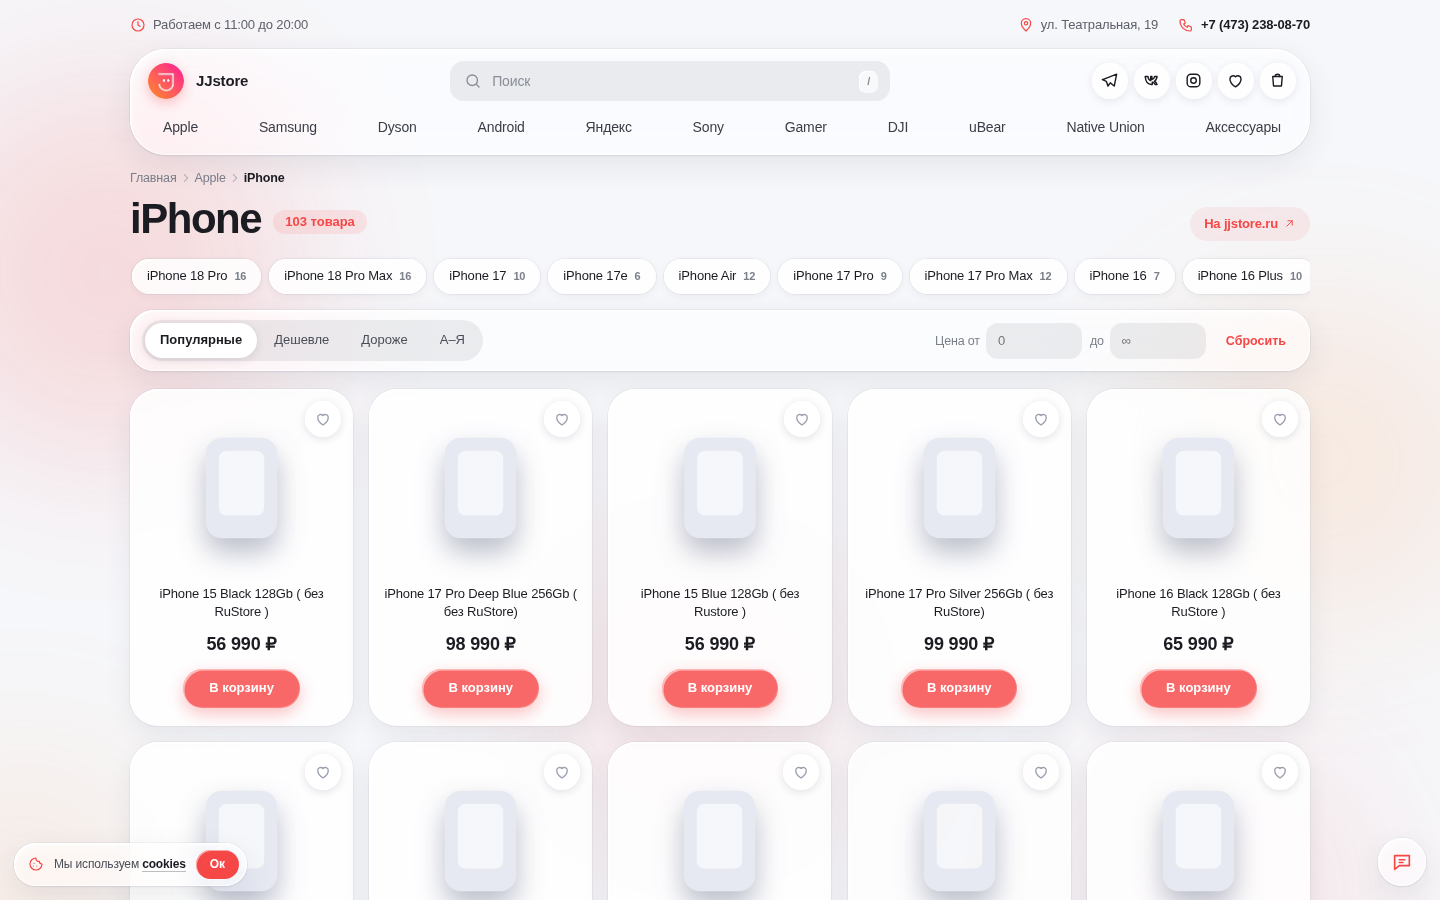
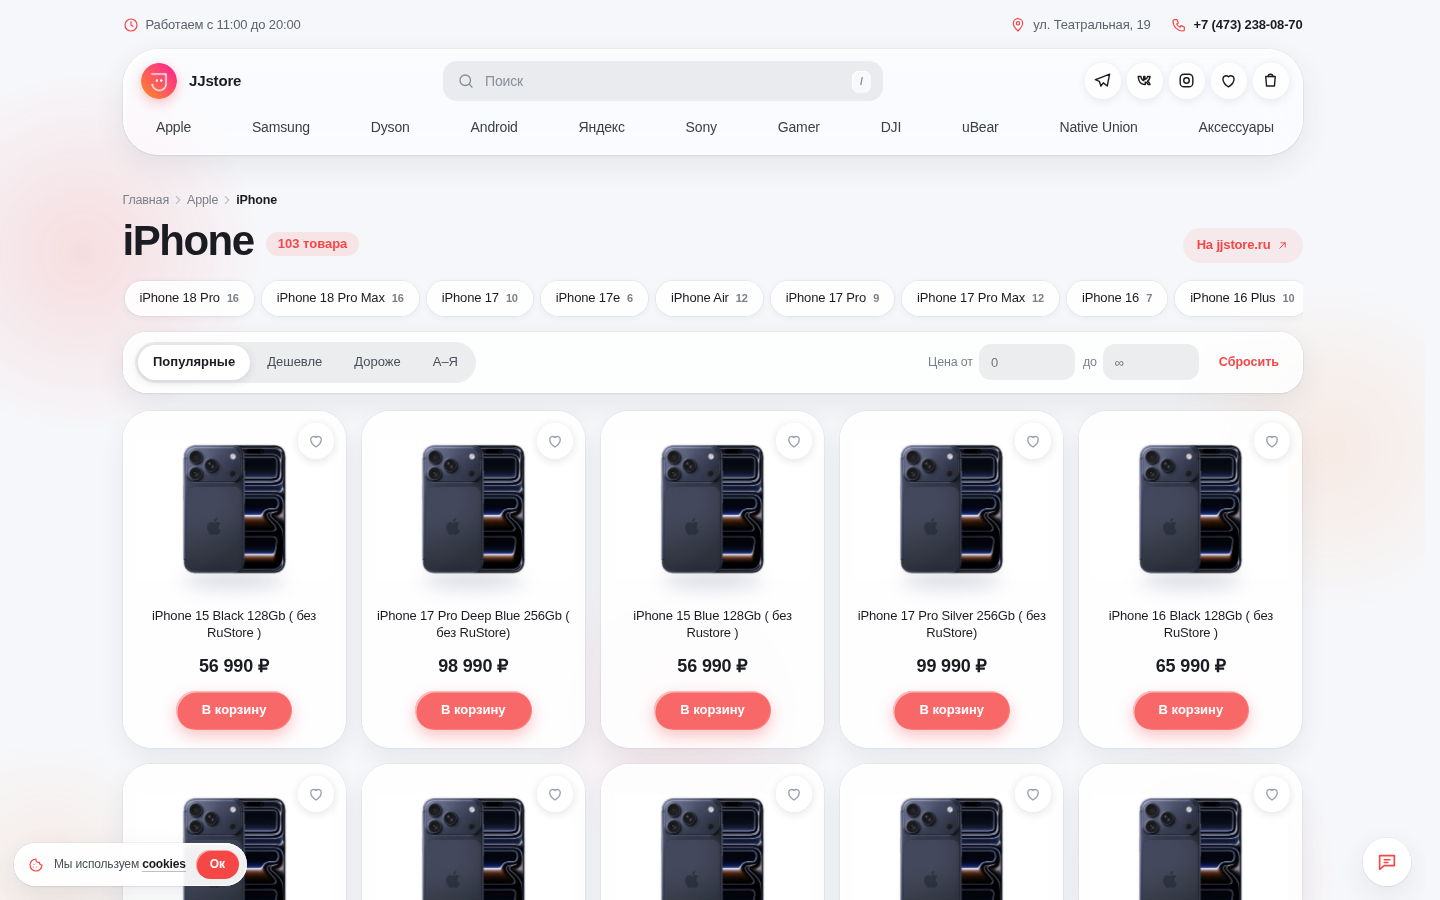
Smoothness pass: no layout shift on header collapse, cheaper rendering, system fonts; white photo backgrounds blended away
Claude-Session: https://claude.ai/code/session_0163ZjdM2uxMpsZRiagcJtBK

diff --git a/assets/script.js b/assets/script.js
@@ -48,6 +48,7 @@
   const feat = n => FEATURED.find(p => p.n === n);
   const imgSrc = p => p.local ? LOCAL + p.local : REMOTE + p.img;
   const link = p => 'https://jjstore.ru/' + p.url;
+  const rm = p => p.local ? '' : ' class="rm"';
   const catUrl = slug => 'https://jjstore.ru/' + slug;
   const isVariant = s => /^[\d.,\s]*(gb|tb|гб|тб|mm|мм|мл|"|дюйм)/i.test(cats[s][0].trim());
   const visKids = s => (kids[s] || []).filter(k => !isVariant(k) && catCount[k]);
@@ -64,7 +65,7 @@
     <article class="card" data-id="${esc(p.id)}">
       ${o.isNew ? '<span class="badge-new">Новинка</span>' : ''}
       <button class="heart ${wish.has(p.id) ? 'on' : ''}" data-act="wish" data-id="${esc(p.id)}" aria-label="В закладки">${ICON.heart}</button>
-      <button class="img" data-act="view" data-id="${esc(p.id)}" aria-label="Быстрый просмотр"><img src="${esc(imgSrc(p))}" alt="${esc(p.name)}" loading="lazy"></button>
+      <button class="img" data-act="view" data-id="${esc(p.id)}" aria-label="Быстрый просмотр"><img${rm(p)} src="${esc(imgSrc(p))}" alt="${esc(p.name)}" loading="lazy"></button>
       <h4 data-act="view" data-id="${esc(p.id)}">${esc(p.name)}</h4>
       <div class="price">${fmt(p.price)}</div>
       <div class="slot" data-id="${esc(p.id)}"></div>
@@ -88,8 +89,10 @@
   const totalQty = () => Object.values(cart).reduce((s, n) => s + n, 0);
   const totalSum = () => Object.entries(cart).reduce((s, [id, n]) => s + (byId.get(id)?.price || 0) * n, 0);
   const stepper = id => `<div class="step" data-id="${esc(id)}"><button data-act="dec" aria-label="Меньше">−</button><b>${qtyOf(id)}</b><button data-act="inc" aria-label="Больше">+</button></div>`;
-  const syncSlots = () => $$('.slot').forEach(s => {
-    const id = s.dataset.id, n = qtyOf(id);
+  const syncSlots = only => $$('.slot').forEach(s => {
+    const id = s.dataset.id; if (only && id !== only) return;
+    const n = qtyOf(id), has = !!s.querySelector('.step');
+    if (n && has) { s.querySelector('.step b').textContent = n; return; }          // just update the number
     s.innerHTML = n ? stepper(id) : `<button class="buy" data-act="inc" data-id="${esc(id)}">В корзину</button>`;
   });
   const syncHearts = () => $$('[data-act="wish"]').forEach(b => b.classList.toggle('on', wish.has(b.dataset.id)));
@@ -103,14 +106,14 @@
   $('#openWish').onclick = () => { renderWish(); openModal(wModal); };
   document.addEventListener('keydown', e => { if (e.key === 'Escape') { closeModals(); hideMega(); } });
 
-  function renderCart() {
+  function renderCart(only) {
     const ids = Object.keys(cart).filter(id => byId.get(id));
     const qty = totalQty(), box = $('#cartItems');
     cartModal.classList.toggle('is-empty', !ids.length);
     box.innerHTML = ids.length ? ids.map(id => {
       const p = byId.get(id);
       return `<article class="ci" data-id="${esc(id)}">
-        <button class="ci-img" data-act="view" data-id="${esc(id)}"><img src="${esc(imgSrc(p))}" alt=""></button>
+        <button class="ci-img" data-act="view" data-id="${esc(id)}"><img${rm(p)} src="${esc(imgSrc(p))}" alt=""></button>
         <div class="ci-main"><b>${esc(p.name)}</b><small>${fmt(p.price)} за шт.</small>
           <div class="ci-row">${stepper(id)}<span class="ci-sum">${fmt(p.price * qtyOf(id))}</span></div></div>
         <button class="ci-del" data-act="del" aria-label="Удалить" title="Удалить">${ICON.trash}</button>
@@ -123,14 +126,14 @@
     $('#cartTotal').textContent = fmt(totalSum());
     $('#cartMeta').textContent = qty ? `${qty} ${plural(qty, 'товар', 'товара', 'товаров')}` : '';
     const c = $('#cartCount'); c.textContent = qty; c.classList.toggle('on', qty > 0);
-    syncSlots(); syncMini();
+    syncSlots(only); syncMini();
   }
   function renderWish() {
     const ids = [...wish].filter(id => byId.get(id)), box = $('#wishItems');
     box.innerHTML = ids.length ? ids.map(id => {
       const p = byId.get(id);
       return `<article class="ci" data-id="${esc(id)}">
-        <button class="ci-img" data-act="view" data-id="${esc(id)}"><img src="${esc(imgSrc(p))}" alt=""></button>
+        <button class="ci-img" data-act="view" data-id="${esc(id)}"><img${rm(p)} src="${esc(imgSrc(p))}" alt=""></button>
         <div class="ci-main"><b>${esc(p.name)}</b><small>${fmt(p.price)}</small>
           <div class="ci-row"><div class="slot" data-id="${esc(id)}"></div></div></div>
         <button class="ci-del" data-act="wish" data-id="${esc(id)}" aria-label="Убрать из закладок" title="Убрать из закладок">${ICON.trash}</button>
@@ -153,7 +156,7 @@
     $('#pBody').innerHTML = `
       <button class="m-x pq-x" data-close aria-label="Закрыть"><svg viewBox="0 0 24 24"><path d="M6 6l12 12M18 6 6 18"/></svg></button>
       <div class="pq-grid">
-        <div class="pq-img"><img src="${esc(imgSrc(p))}" alt="${esc(p.name)}"></div>
+        <div class="pq-img"><img${rm(p)} src="${esc(imgSrc(p))}" alt="${esc(p.name)}"></div>
         <div class="pq-info">
           <small class="pq-cat">${chain.map(c => esc(cats[c][0])).join(' · ') || 'Каталог'}</small>
           <h2>${esc(p.name)}</h2>
@@ -169,7 +172,7 @@
           <a class="pq-ext" href="${esc(link(p))}" target="_blank" rel="noopener">Страница товара на jjstore.ru ${ICON.ext}</a>
         </div>
       </div>
-      ${rel.length ? `<div class="pq-rel"><b>Ещё в этой категории</b><div class="rel-row">${rel.map(r => `<button class="rel" data-act="view" data-id="${esc(r.id)}"><img src="${esc(imgSrc(r))}" alt="" loading="lazy"><span>${esc(r.name)}</span><em>${fmt(r.price)}</em></button>`).join('')}</div></div>` : ''}`;
+      ${rel.length ? `<div class="pq-rel"><b>Ещё в этой категории</b><div class="rel-row">${rel.map(r => `<button class="rel" data-act="view" data-id="${esc(r.id)}"><img${rm(r)} src="${esc(imgSrc(r))}" alt="" loading="lazy"><span>${esc(r.name)}</span><em>${fmt(r.price)}</em></button>`).join('')}</div></div>` : ''}`;
     syncSlots(); openModal(pModal);
   }
 
@@ -193,8 +196,7 @@
         if (wModal.classList.contains('on')) renderWish();
         return;
       }
-      saveCart(); renderCart();
-      if (wModal.classList.contains('on')) syncSlots();
+      saveCart(); renderCart(id);
       return;
     }
     /* internal navigation for category links */
@@ -301,6 +303,7 @@
   let CS = null;   // catalog state
   function showCatalog(route) {
     home.hidden = true; catalog.hidden = false; document.body.classList.add('in-catalog');
+    catalog.classList.remove('view-in'); void catalog.offsetWidth; catalog.classList.add('view-in');
     hideMega();
     const isSearch = route.q != null;
     const slug = route.cat;
@@ -324,7 +327,7 @@
       <div class="more-wrap"><button class="btn-more" id="catMore">Показать ещё</button></div>`;
     renderCatGrid(true);
     document.title = `${title} — JJstore`;
-    scrollTo(0, 0);
+    scrollTo({ top: 0, behavior: 'instant' });
   }
   function filtered() {
     const min = parseInt(CS.min.replace(/\D/g, ''), 10) || 0, max = parseInt(CS.max.replace(/\D/g, ''), 10) || Infinity;
@@ -354,7 +357,8 @@
     if (e.target.id === 'pMin' || e.target.id === 'pMax') { CS.min = $('#pMin').value; CS.max = $('#pMax').value; clearTimeout(ft); ft = setTimeout(() => renderCatGrid(true), 220); }
   });
   function showHome() {
-    catalog.hidden = true; home.hidden = false; document.body.classList.remove('in-catalog'); document.title = 'JJstore — оригинальная техника в Воронеже';
+    catalog.hidden = true; home.hidden = false; document.body.classList.remove('in-catalog');
+    home.classList.remove('view-in'); void home.offsetWidth; home.classList.add('view-in'); document.title = 'JJstore — оригинальная техника в Воронеже';
     window.dispatchEvent(new Event('homeshown'));
   }
   function route() {
@@ -402,7 +406,7 @@
     if (!q) { showSugg(); return; }
     const found = searchProducts(q), top = found.slice(0, 6);
     res.innerHTML = top.length
-      ? top.map(p => `<button class="sr" data-act="view" data-id="${esc(p.id)}"><img src="${esc(imgSrc(p))}" alt="" loading="lazy"><b>${esc(p.name)}</b><span>${fmt(p.price)}</span></button>`).join('') +
+      ? top.map(p => `<button class="sr" data-act="view" data-id="${esc(p.id)}"><img${rm(p)} src="${esc(imgSrc(p))}" alt="" loading="lazy"><b>${esc(p.name)}</b><span>${fmt(p.price)}</span></button>`).join('') +
         `<a class="sr-all" href="#/s/${encodeURIComponent(q)}">Все результаты · ${found.length}${ICON.chev}</a>`
       : '<em>Ничего не найдено</em>';
     res.classList.add('on');
@@ -462,9 +466,11 @@
     nav.addEventListener('pointerleave', () => { ind.style.opacity = 0; });
   })();
 
-  /* header condenses on scroll down, expands on scroll up */
+  /* header condenses on scroll down, expands on scroll up (flow height is reserved, so nothing jumps) */
   (function () {
     const head = $('#head'); let y = scrollY, ticking = false;
+    const measure = () => { if (head.classList.contains('compact')) return; const h = head.firstElementChild.offsetHeight; if (h) { head.style.setProperty('--bh', h + 'px'); head.style.setProperty('--hh', (h + 22) + 'px'); } };
+    measure(); addEventListener('resize', measure); addEventListener('load', measure); setTimeout(measure, 400);
     addEventListener('scroll', () => {
       if (ticking) return; ticking = true;
       requestAnimationFrame(() => {

diff --git a/assets/style.css b/assets/style.css
@@ -646,3 +646,45 @@ body.in-catalog .minicart{bottom:calc(16px + env(safe-area-inset-bottom))}
 /* auto-scrolling row must not fight scroll-snap; soft fade at both edges */
 .track.auto{scroll-snap-type:none;scroll-behavior:auto;-webkit-mask-image:linear-gradient(90deg,transparent 0,#000 28px,#000 calc(100% - 28px),transparent 100%);mask-image:linear-gradient(90deg,transparent 0,#000 28px,#000 calc(100% - 28px),transparent 100%)}
 @media(max-width:760px){.pager{height:34px}.pg{width:36px}}
+
+/* =============== smoothness pass =============== */
+/* system fonts only: no webfont swap, no layout shift */
+body{font-family:-apple-system,BlinkMacSystemFont,"SF Pro Text","SF Pro Display","Segoe UI Variable Text","Segoe UI",Roboto,"Helvetica Neue",Arial,sans-serif}
+/* no content jump when a modal removes the scrollbar */
+html{scrollbar-gutter:stable}
+/* header: collapsing the brand row happens on an out-of-flow layer, page below never moves */
+.head{height:0;margin:0 auto var(--hh,128px)}
+.head .bar{position:absolute;left:0;right:0;top:0}
+.mega{top:calc(var(--bh,106px) + 8px)}
+/* background glow: cheap radial fades instead of animated blur filters */
+.orbs i{filter:none;will-change:transform;border-radius:50%}
+.o1{background:radial-gradient(circle,rgba(246,71,71,.9) 0,rgba(246,71,71,0) 68%)}
+.o2{background:radial-gradient(circle,rgba(255,154,77,.9) 0,rgba(255,154,77,0) 68%)}
+.o3{background:radial-gradient(circle,rgba(246,71,71,.9) 0,rgba(246,71,71,0) 68%)}
+.o4{background:radial-gradient(circle,rgba(255,154,77,.9) 0,rgba(255,154,77,0) 68%)}
+.o5{background:radial-gradient(circle,rgba(246,71,71,.9) 0,rgba(246,71,71,0) 68%)}
+/* many small glass surfaces: solid translucent fill instead of live backdrop blur (big scroll-perf win, same look on a pale page) */
+.tile,.promo,.slide,.foot-card,.toolbar,.pager,.hero-pill,.help-btn,.cookie,.pq-img,.info-b{backdrop-filter:none;-webkit-backdrop-filter:none}
+.tile,.promo{background:rgba(255,255,255,.82)}
+.slide.s-red{background:rgba(255,226,223,.92)}.slide.s-blue{background:rgba(224,234,255,.92)}.slide.s-sand{background:rgba(255,236,214,.92)}
+.foot-card,.toolbar{background:rgba(255,255,255,.8)}
+.pager,.hero-pill{background:rgba(255,255,255,.9)}
+.help-btn,.cookie{background:rgba(255,255,255,.92)}
+.glass{contain:layout paint}
+.modal-card.glass,.mega.glass,.minicart.glass,.bar.glass,.glass.results{contain:none}
+/* white photo backgrounds vanish on the light cards */
+img.rm{mix-blend-mode:multiply;filter:none!important}
+.card .img{position:relative}
+.card .img:has(img.rm)::before{content:"";position:absolute;left:24%;right:24%;bottom:8px;height:14px;border-radius:50%;background:rgba(30,40,80,.2);filter:blur(9px)}
+.pq-img:has(img.rm){position:relative}
+/* view transitions */
+.view-in{animation:viewIn .5s var(--ease) both}
+@keyframes viewIn{from{opacity:0;transform:translateY(12px)}}
+/* never animate layout-affecting properties on scroll-driven elements */
+.card,.tile,.promo,.slide{backface-visibility:hidden}
+/* opaque plates behind photos so multiply-blended white backgrounds disappear completely */
+.rel{background:#fbfbfd}
+.ci-img{background:#eceff7}
+.pq-img{background:#eceff7}
+.results{background:rgba(255,255,255,.97)}
+.results .sr:hover{background:#f1f2f6}

diff --git a/index.html b/index.html
@@ -8,9 +8,6 @@
 <title>JJstore — оригинальная техника в Воронеже</title>
 <meta name="description" content="JJstore — маркетплейс оригинальной продукции Apple, Samsung, Xiaomi, DJI, JBL, GoPro, Dyson в Воронеже.">
 <link rel="icon" href="assets/brand/favicon.png">
-<link rel="preconnect" href="https://fonts.googleapis.com">
-<link rel="preconnect" href="https://fonts.gstatic.com" crossorigin>
-<link href="https://fonts.googleapis.com/css2?family=Inter:wght@400;500;600;700&display=swap" rel="stylesheet">
 <link rel="stylesheet" href="assets/style.css">
 </head>
 <body>
